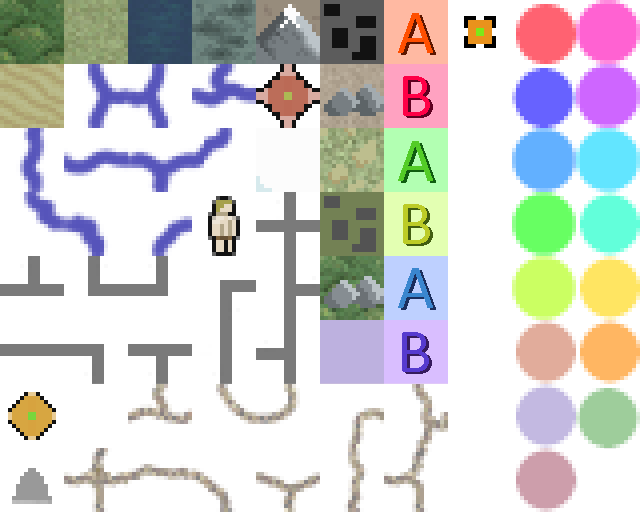
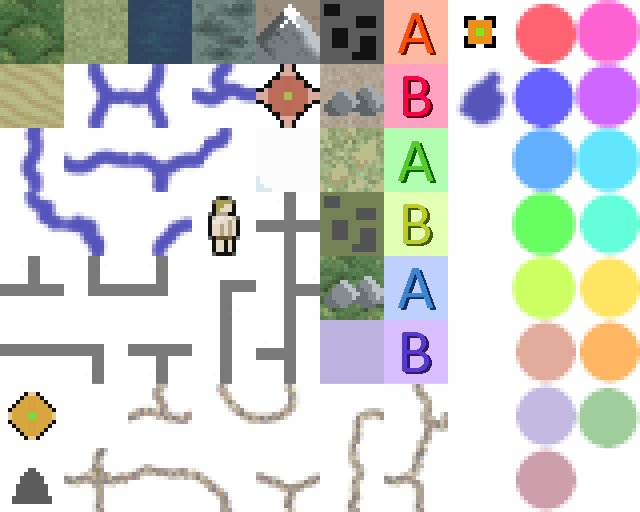
named lakes

Changed region(s): [[0.7188, 0.125, 0.8125, 0.25], [0.0, 0.9062, 0.0938, 1.0]]

diff --git a/src/main/kotlin/util/Madlib.kt b/src/main/kotlin/util/Madlib.kt
@@ -407,6 +407,7 @@ object Madlib {
             "Forgotten",
             "Nameless",
             "Spine",
+            "Silent",
             wizardNameWord(),
             wizardNameWord(),
             wizardNameWord(),
@@ -425,6 +426,9 @@ object Madlib {
         "Blasted",
         "Bleached",
         "Skull",
+        "Glass",
+        "Litter",
+        "Silent",
         wizardNameWord(),
         wizardNameWord(),
         wizardNameWord(),
@@ -448,6 +452,8 @@ object Madlib {
         "Howling",
         "Weeping",
         "Rashes",
+        "Pox",
+        "Mucus",
         wizardNameWord(),
         wizardNameWord(),
         wizardNameWord(),
@@ -457,7 +463,7 @@ object Madlib {
 
     fun forestName(): String {
         val adjs = listOf("Horror", "Fear", "Gloom", "Spider", "Beetle", "Death", "Moon", "Moss",
-            "Weeping", "Howling",
+            "Weeping", "Howling", "Suicide", "Rime", "Tangle",
             wizardNameWord(), wizardNameWord(), wizardNameWord(), wizardNameWord(), wizardNameWord(), wizardNameWord(), wizardNameWord())
         return when (Dice.oneTo(4)) {
             1 -> { adjs.random() + "wood" }
@@ -467,24 +473,35 @@ object Madlib {
         }
     }
 
+    fun lakeName(): String {
+        return when (Dice.oneTo(4)) {
+            1 -> { "Lake " + wizardNameWord() }
+            2 -> { firstNames.random() + " Lake" }
+            3 -> { (villagePre.random()).capitalize() + " Lake" }
+            else -> { "Lake " + prophetName() }
+        }
+    }
+
+    val villagePre = listOf("iron", "owl", "deer", "oak", "sparrow", "robin", "mud", "snake", "turnip",
+        "carrot", "onion", "cheese", "coon", "bear", "wolf", "fox", "hound", "water", "rabbit", "hare",
+        "elm", "birch", "pine", "brook", "tarn", "brass", "barn", "loch", "lark", "roche", "east", "west",
+        "north", "south", "larry", "bill", "maude", "sally", "chester", "white", "black", "gray", "blue",
+        "hawk", "eagle", "rat", "possum", "wall", "archer", "arrow", "axe", "anvil", "sharp", "dull",
+        "fail", "bleak", "fear", "gale", "frost", "anger", "hunger", "hope", "faith", "mel", "kayle", "figs",
+        "turd", "waste", "dust", "ruby", "kirby", "stan", "buffa", "cow", "chicken", "caul", "omen",
+        "comet", "moon", "demon", "motor", "trucker", "kill", "dismal", "dubya", "yeezy", "prince", "beggar",
+        "hobo", "bum", "drifter", "booze"
+    )
+
     fun villageName(): String {
-        val pre = listOf("iron", "owl", "deer", "oak", "sparrow", "robin", "mud", "snake", "turnip",
-            "carrot", "onion", "cheese", "coon", "bear", "wolf", "fox", "hound", "water", "rabbit", "hare",
-            "elm", "birch", "pine", "brook", "tarn", "brass", "barn", "loch", "lark", "roche", "east", "west",
-            "north", "south", "larry", "bill", "maude", "sally", "chester", "white", "black", "gray", "blue",
-            "hawk", "eagle", "rat", "possum", "wall", "archer", "arrow", "axe", "anvil", "sharp", "dull",
-            "fail", "bleak", "fear", "gale", "frost", "anger", "hunger", "hope", "faith", "mel", "kayle", "figs",
-            "turd", "waste", "dust", "ruby", "kirby", "stan", "buffa", "cow", "chicken", "caul", "omen",
-            "comet", "moon", "demon", "motor", "trucker", "kill", "dismal", "dubya", "yeezy", "prince", "beggar",
-            "hobo", "bum", "drifter", "booze"
-        )
+
         val post = listOf("ton", "town", "ville", " Town", "more", "bury", "dale", "field", "bend", "dell",
             "pool", "mouth", "ham", "wick", "ford", "hope", "meet", "stead", "vale", "point", "sted", "ston",
             " Hollow", " Holler", " Camp", "topia", " Valley", " Gulch", " Bend", " Fork", " Mill", " Grove",
             "land", "stein", "ward", "gard", "'s Folly", "'s End"
         )
 
-        var name = pre.random() + post.random()
+        var name = villagePre.random() + post.random()
         if (Dice.chance(0.1f)) name = listOf("North", "East", "South", "West", "New", "Old").random() + " " + name.capitalize()
 
         return name.capitalize()

diff --git a/src/main/kotlin/world/gen/Metamap.kt b/src/main/kotlin/world/gen/Metamap.kt
@@ -54,7 +54,7 @@ object Metamap {
     val mountainRangeWetness = 6
     val randomHillChance = 0.015f
     val randomForestChance = 0.015f
-    val oasisChance = 0.015f
+    val oasisChance = 0.01f
     val citiesRiverMouth = 6
     val citiesRiver = 8
     val citiesCoast = 8
@@ -75,7 +75,8 @@ object Metamap {
     val randomFarmChance = 0.01f
     val randomGraveyardChance = 0.005f
     val randomTavernChance = 0.003f
-    val randomBuildingChance = 0.002f
+    val randomBuildingChance = 0.003f
+    val randomLakeChance = 0.004f
     val maxThreatLevel = 40
     val spawnDistanceThreatFactor = 0.24f
     val biomeDepthThreatFactor = 1f
@@ -653,7 +654,7 @@ object Metamap {
                     Desert -> {
                         if (biomeNeighbors(x, y, Desert, true) == 8 && Dice.chance(oasisChance)) {
                             cell.biome = if (Dice.flip()) Plain else Scrub
-                            cell.addFeature(Lake())
+                            cell.addFeature(Lake(Madlib.lakeName()))
                         }
                     }
                     else -> { }
@@ -842,12 +843,12 @@ object Metamap {
                 }
                 // Lakes
                 if (Lake.canBuildOn(cell) && Dice.chance(when (cell.rivers().size) {
-                        0 -> 0.02f
+                        0 -> 0.003f
                         1 -> 0.3f
-                        2 -> 0.06f
-                        else -> 0.1f
+                        2 -> 0.01f
+                        else -> 0.05f
                     })) {
-                    cell.addFeature(Lake())
+                    cell.addFeature(Lake(Madlib.lakeName()))
                 }
                 // Ruined buildings
                 cell.cityDistance = cityCells.minOf { distanceBetween(x,y,it.x,it.y) }
@@ -887,6 +888,10 @@ object Metamap {
                     // Buildings
                     if (Building.canBuildOn(cell) && Dice.chance(randomBuildingChance)) {
                         cell.addFeature(Building())
+                    }
+                    // Lakes
+                    if (Lake.canBuildOn(cell) && cell.biome != Desert && Dice.chance(randomLakeChance)) {
+                        cell.addFeature(Lake(Madlib.lakeName()))
                     }
                 }
             }
@@ -971,13 +976,13 @@ object Metamap {
             sayProgress("Choosing start location...")
             var startChunk: XY = XY(100,100)
             // For now just pick a village
-            startChunk = villages.random()
+//            startChunk = villages.random()
             // Pick a cabin chunk
-//            forEachScratch { x, y, cell ->
-//                if (cell.hasFeature(Building::class)) {
-//                    startChunk = XY(x,y)
-//                }
-//            }
+            forEachScratch { x, y, cell ->
+                if (cell.hasFeature(Lake::class)) {
+                    startChunk = XY(x,y)
+                }
+            }
 
             suggestedPlayerStart.x = xToChunkX(startChunk.x)
             suggestedPlayerStart.y = yToChunkY(startChunk.y)

diff --git a/src/main/kotlin/world/gen/features/Lake.kt b/src/main/kotlin/world/gen/features/Lake.kt
@@ -2,6 +2,7 @@ package world.gen.features
 
 import actors.NPC
 import kotlinx.serialization.Serializable
+import render.tilesets.Glyph
 import util.Dice
 import util.Rect
 import util.XY
@@ -15,20 +16,27 @@ import world.quests.FetchQuest
 import world.terrains.Terrain
 
 @Serializable
-class Lake : Feature() {
+class Lake(
+    val name: String,
+) : Feature() {
     override fun order() = 3
     override fun stage() = Stage.TERRAIN
+    override fun name() = name
+    override fun cellTitle() = name
+    override fun mapIcon(onBiome: Biome?): Glyph? = Glyph.MAP_LAKE
+    override fun mapPOITitle() = name
+    override fun mapPOIDescription() = ""
+    override fun trailDestinationChance() = 1f
     override fun canBeQuestDestination() = Dice.chance(0.5f)
     override fun createQuest() = FetchQuest()
+    override fun loreKnowabilityRadius() = 500
+    override fun xpValue() = 8
 
     companion object {
         fun canBuildOn(meta: ChunkScratch) = !meta.hasFeature(Village::class)
                 && meta.biome !in listOf(Ocean, Glacier)
     }
 
-    override fun name() = "lake"
-
-    override fun trailDestinationChance() = 1f
 
     var bounds = Rect(0, 0, 0, 0)
 

diff --git a/src/main/kotlin/world/gen/features/Village.kt b/src/main/kotlin/world/gen/features/Village.kt
@@ -32,6 +32,10 @@ class Village(
     override fun order() = 3
     override fun stage() = Stage.BUILD
     override fun name() = name
+    override fun cellTitle() = if (isAbandoned) "abandoned village" else name
+    override fun mapIcon(onBiome: Biome?): Glyph? = Glyph.MAP_VILLAGE
+    override fun mapPOITitle() = name
+    override fun mapPOIDescription() = "The ${flavor.displayName} village of $name."
     override fun numberOfQuestsDesired() = if (isAbandoned) 0 else max(1, min(Dice.oneTo(size / 3), 4))
     override fun canBeQuestDestination() = true
     override fun createQuest() = FetchQuest()
@@ -52,7 +56,6 @@ class Village(
 
     @Transient val guards = mutableListOf<VillageGuard>()  // only used during gen
 
-    override fun cellTitle() = if (isAbandoned) "abandoned village" else name
 
     class HutSpec(val rect: Rect, val doorDir: XY) { }
 
@@ -358,9 +361,5 @@ class Village(
             }
         }
     }
-
-    override fun mapIcon(onBiome: Biome?): Glyph? = Glyph.MAP_VILLAGE
-    override fun mapPOITitle() = name
-    override fun mapPOIDescription() = "The ${flavor.displayName} village of $name."
 
 }

diff --git a/src/main/kotlin/render/tilesets/PortraitTileSet.kt b/src/main/kotlin/render/tilesets/PortraitTileSet.kt
@@ -7,6 +7,10 @@ fun PortraitTileSet() =
         setTile(Glyph.PORTRAIT_SHADE, SimpleTile(this, 0, 9))
         setTile(Glyph.PORTRAIT_SPEECH_BUBBLE, SimpleTile(this, 1, 9))
 
+        setTile(Glyph.PORTRAIT_THUNDARR, SimpleTile(this, 9, 0))
+        setTile(Glyph.PORTRAIT_ARIEL, SimpleTile(this, 9, 1))
+        setTile(Glyph.PORTRAIT_OOKLA, SimpleTile(this, 9, 2))
+
         setTile(Glyph.PORTRAIT_PALE_M_1, SimpleTile(this, 0, 0))
         setTile(Glyph.PORTRAIT_PALE_M_2, SimpleTile(this, 0, 1))
         setTile(Glyph.PORTRAIT_PALE_M_3, SimpleTile(this, 0, 2))

diff --git a/src/main/kotlin/render/tilesets/Glyph.kt b/src/main/kotlin/render/tilesets/Glyph.kt
@@ -277,6 +277,7 @@ enum class Glyph {
     MAP_VILLAGE,
     MAP_CAVE,
     MAP_BUILDING,
+    MAP_LAKE,
     MAP_ROAD_NSE,
     MAP_ROAD_NSW,
     MAP_ROAD_NWE,
@@ -318,6 +319,9 @@ enum class Glyph {
 
     PORTRAIT_SHADE,
     PORTRAIT_SPEECH_BUBBLE,
+    PORTRAIT_THUNDARR,
+    PORTRAIT_ARIEL,
+    PORTRAIT_OOKLA,
     PORTRAIT_PALE_M_1,
     PORTRAIT_PALE_M_2,
     PORTRAIT_PALE_M_3,

diff --git a/src/main/kotlin/render/tilesets/MapTileSet.kt b/src/main/kotlin/render/tilesets/MapTileSet.kt
@@ -83,4 +83,5 @@ fun MapTileSet() =
         setTile(Glyph.MAP_VILLAGE, SimpleTile(this, 0, 6))
         setTile(Glyph.MAP_CAVE, SimpleTile(this, 0, 7))
         setTile(Glyph.MAP_BUILDING, SimpleTile(this, 7, 0))
+        setTile(Glyph.MAP_LAKE, SimpleTile(this, 7, 1))
     }
